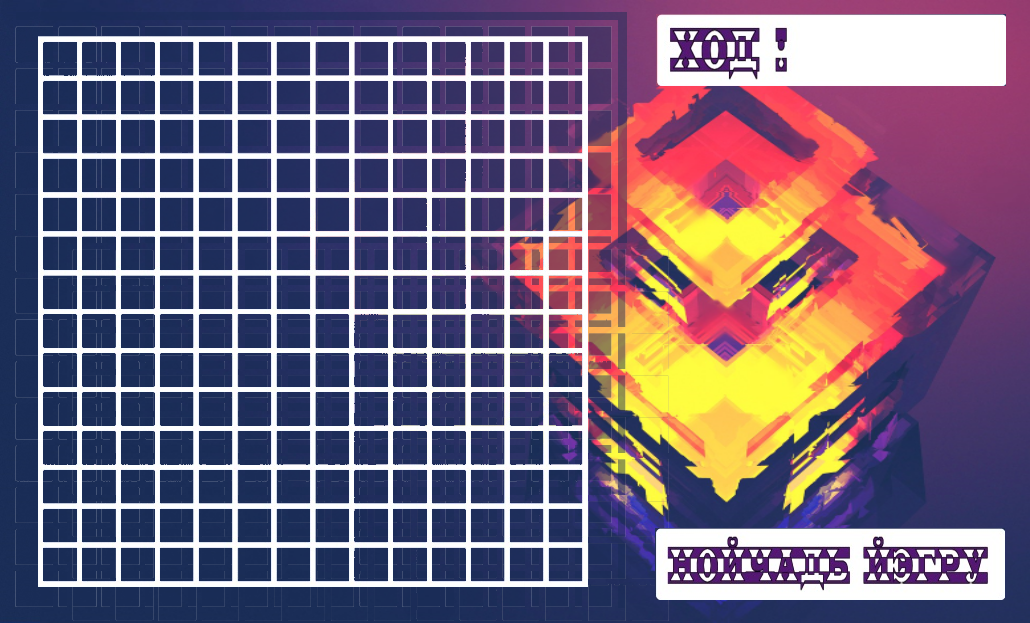
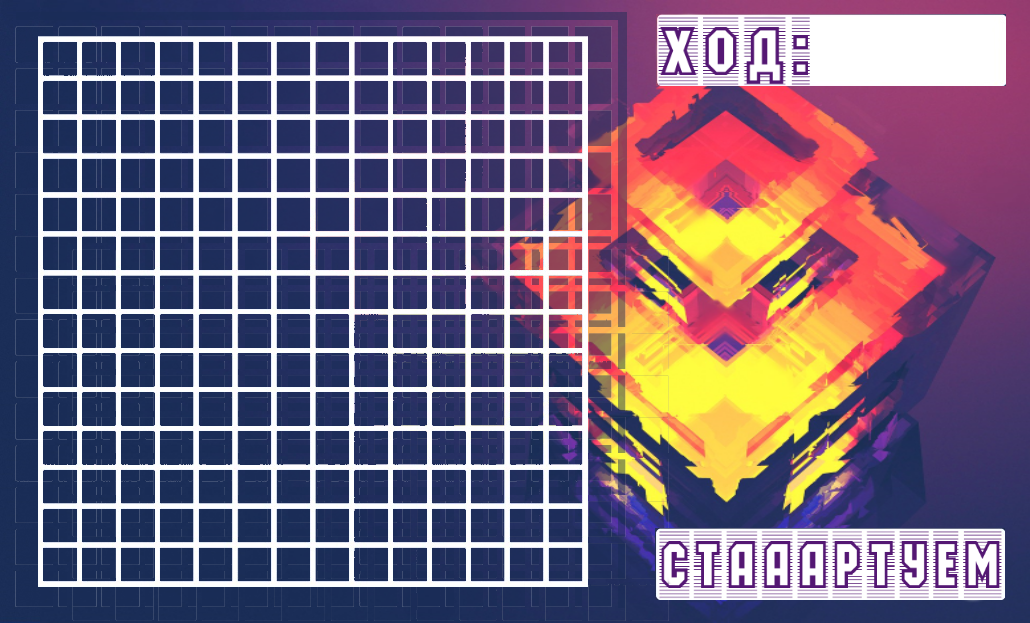
smth new

Changed region(s): [[0.6214, 0.8539, 0.9942, 0.9759], [0.6214, 0.0, 0.8078, 0.1525]]

diff --git a/src/Rendzu/styles.css b/src/Rendzu/styles.css
@@ -5,5 +5,10 @@
     -fx-background-position: center center;
 }
 
-
+.button {
+    -fx-background-image: url(Images/buttonSkip.png);
+        -fx-background-repeat: stretch;
+        -fx-background-size: 350 71;
+        -fx-background-position: center center;
+}
 
